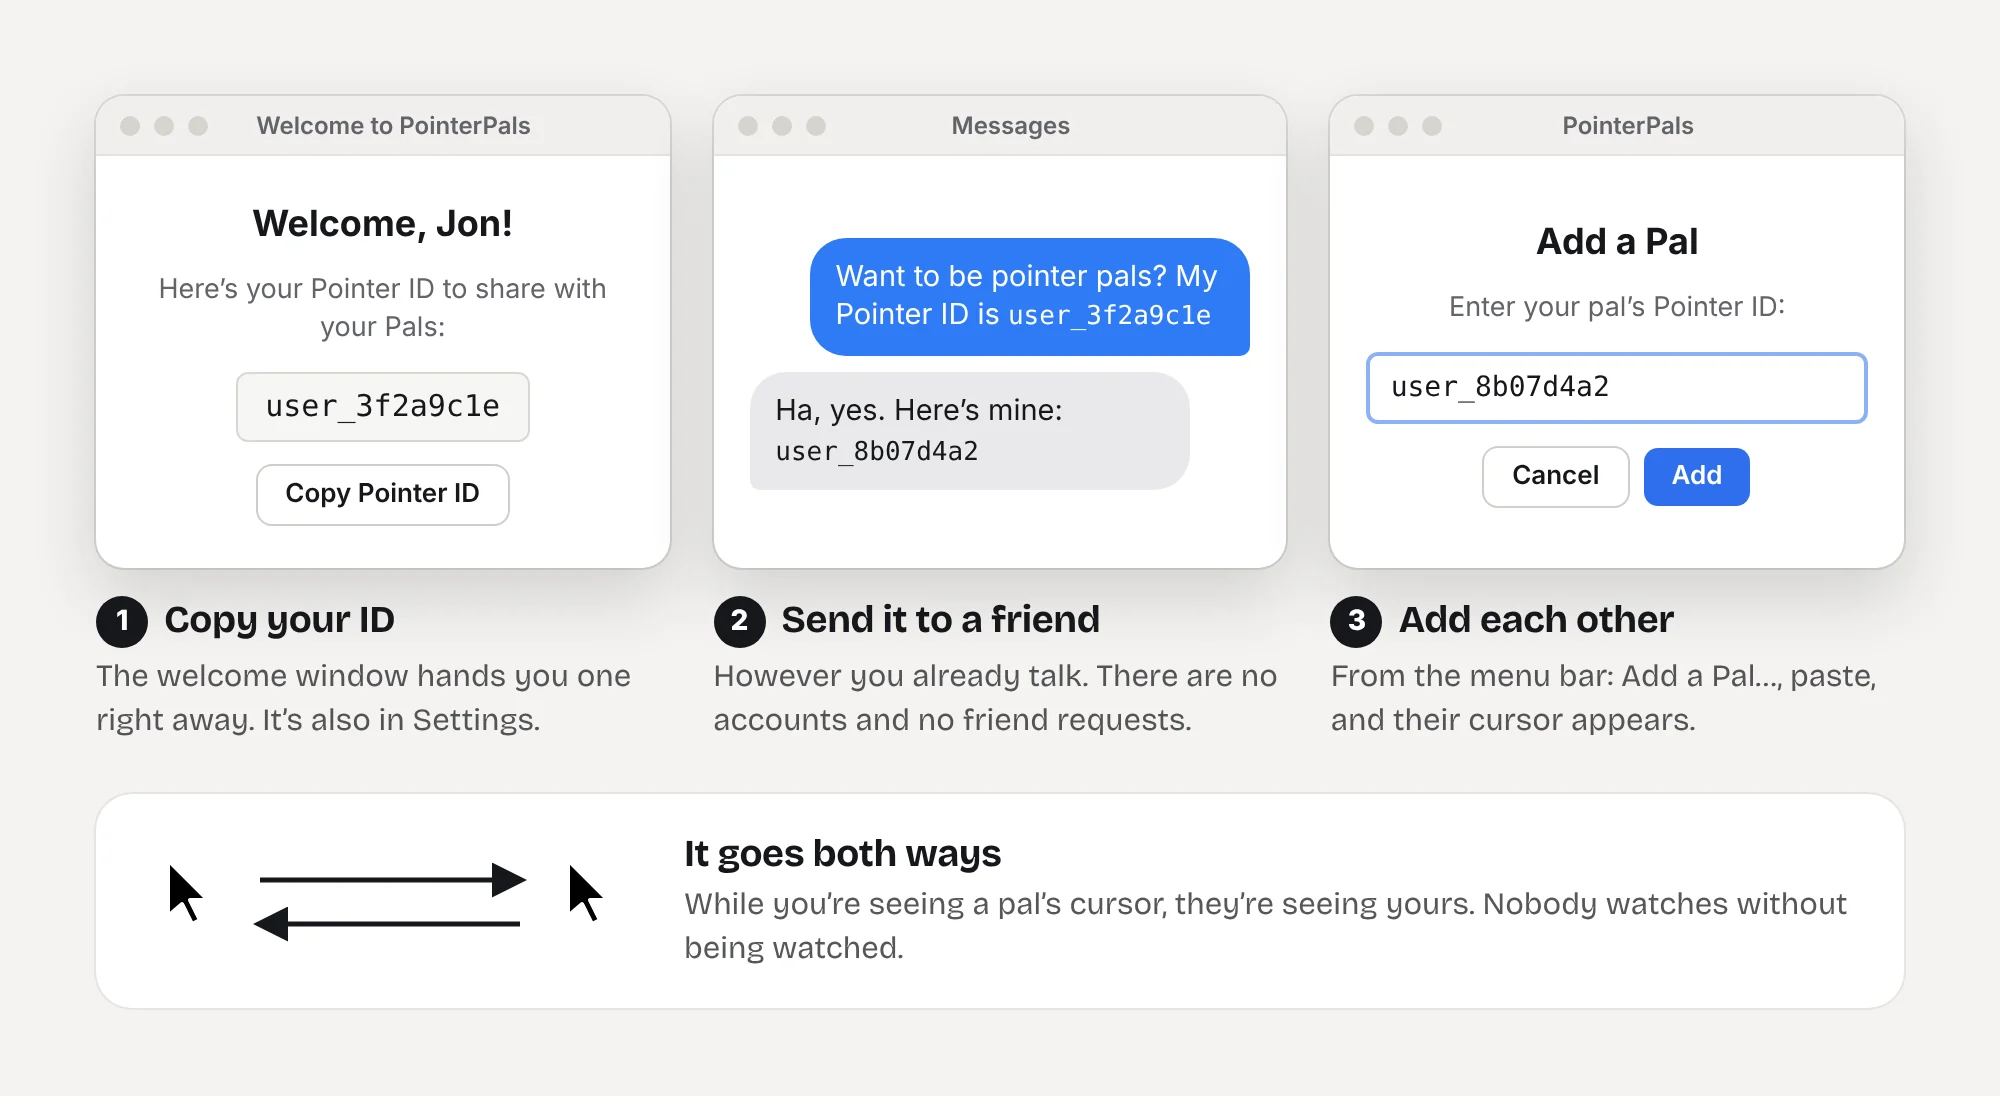
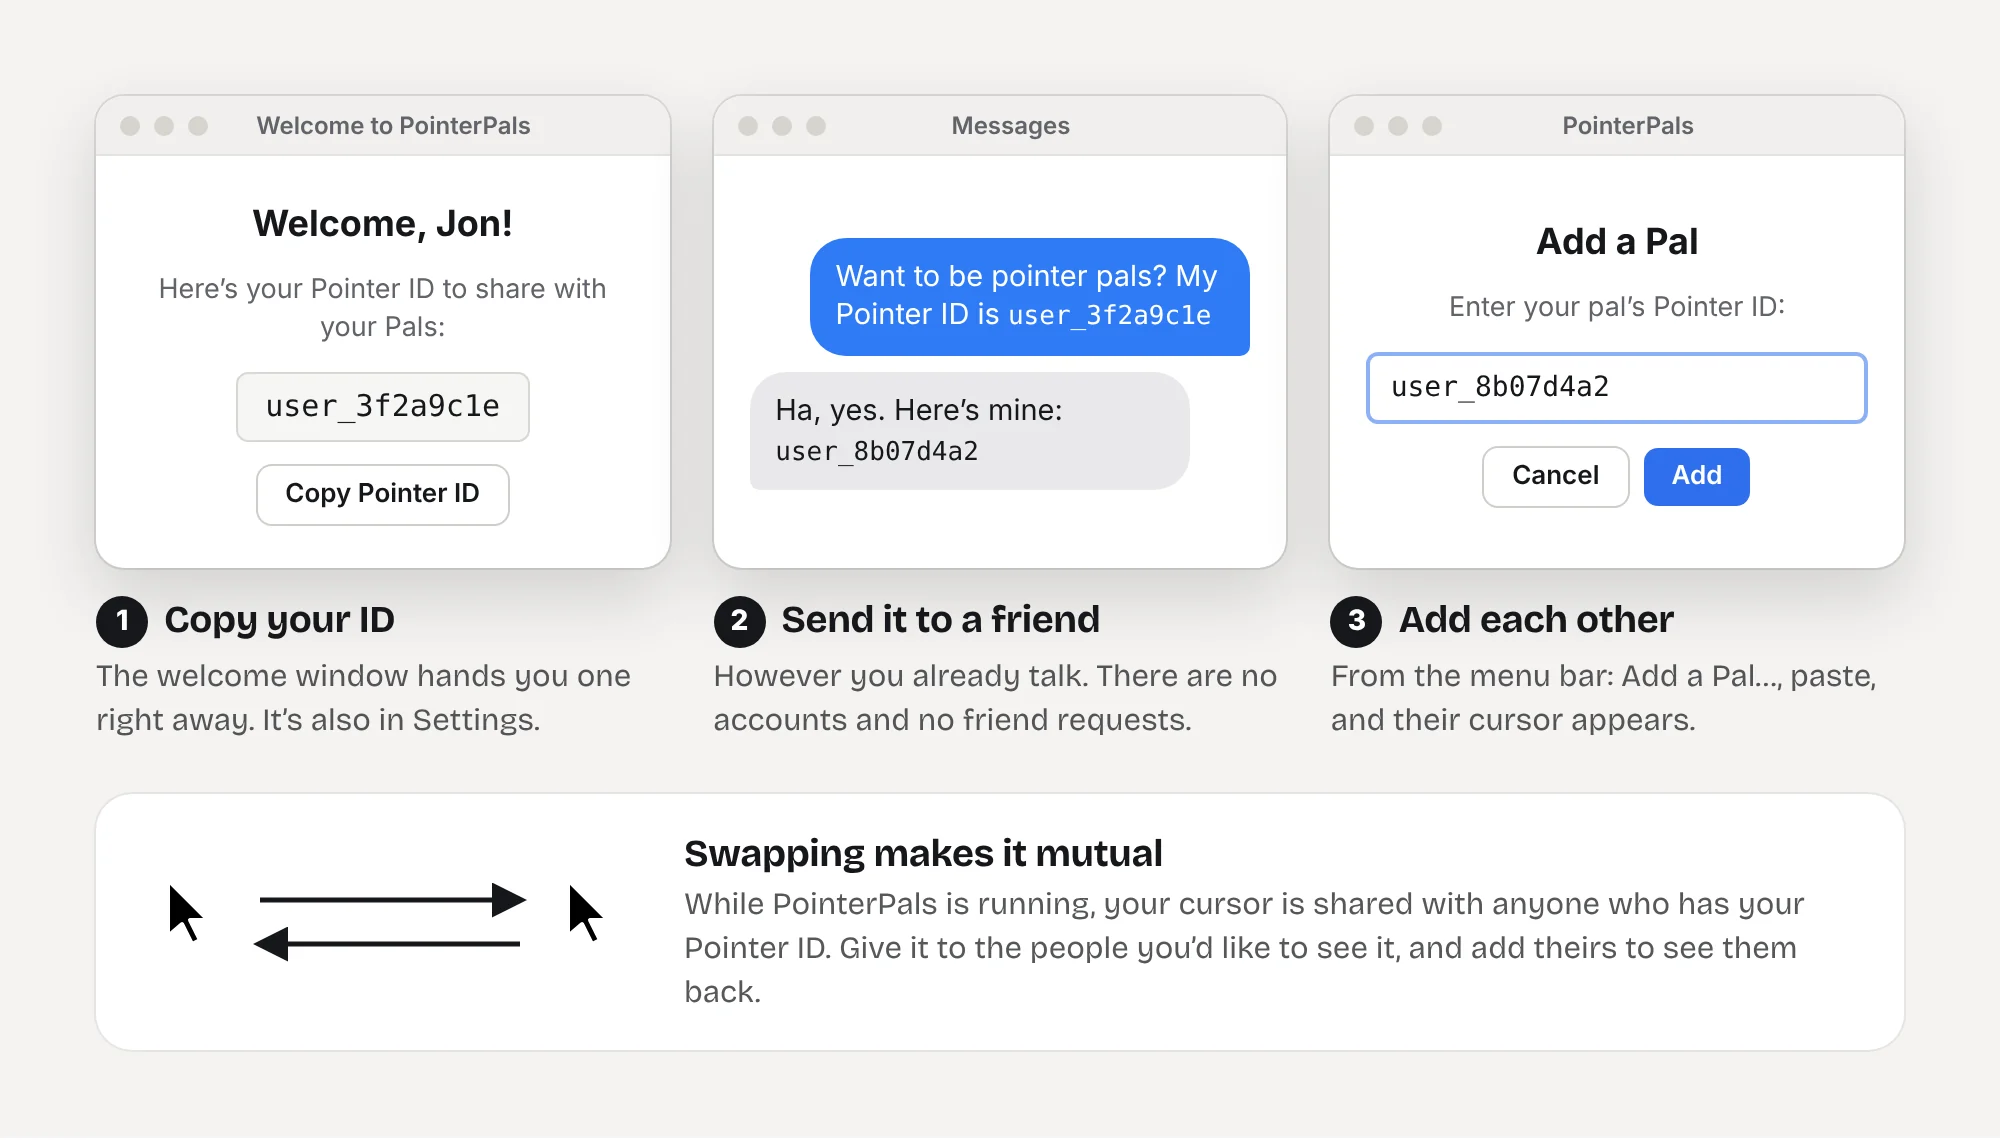
PointerPals: describe sharing as it works (anyone with your ID)
Claude-Session: https://claude.ai/code/session_01ApH9jEjLK1LJwCUv1Ydmxw

diff --git a/pointerpals/index.html b/pointerpals/index.html
@@ -70,8 +70,8 @@
 <p>The architecture uses normalized coordinates so cursor positions translate correctly across different screen sizes. A WebSocket server running on Google Cloud handles the pub/sub layer. The macOS client is Swift and SwiftUI; a Windows client exists in C# and WPF for cross-platform pairs.</p>
 <figure><div class="slot " data-src="../assets/media/pointerpals/process-1" data-exts="webp,jpg,png,gif" data-kind="image" data-alt="Two Macs with different screen sizes sharing a cursor position through a WebSocket server"><div class="slot-ph"><span>Process image</span><code>assets/media/pointerpals/process-1.webp</code></div></div><figcaption>A cursor travels as a fraction of the screen, so it lands in the same place on any display.</figcaption></figure>
 <h3>Pals, both ways</h3>
-<p>To add a pal, you swap Pointer IDs: copy yours, send it however you already talk, and paste theirs into Add a Pal. There are no accounts and no friend requests. It’s reciprocal, too: while you’re seeing a pal’s cursor, they’re seeing yours.</p>
-<figure><div class="slot " data-src="../assets/media/pointerpals/process-5" data-exts="webp,jpg,png,gif" data-kind="image" data-alt="The welcome window with a Pointer ID, two people swapping IDs in Messages, and the Add a Pal window"><div class="slot-ph"><span>Process image</span><code>assets/media/pointerpals/process-5.webp</code></div></div><figcaption>Swap IDs, add each other, and you can each see the other.</figcaption></figure>
+<p>To add a pal, you swap Pointer IDs: copy yours, send it however you already talk, and paste theirs into Add a Pal. There are no accounts and no friend requests. While PointerPals is running, your cursor is shared with anyone who has your ID, so swapping IDs is what makes it mutual: you each see the other.</p>
+<figure><div class="slot " data-src="../assets/media/pointerpals/process-5" data-exts="webp,jpg,png,gif" data-kind="image" data-alt="The welcome window with a Pointer ID, two people swapping IDs in Messages, and the Add a Pal window"><div class="slot-ph"><span>Process image</span><code>assets/media/pointerpals/process-5.webp</code></div></div><figcaption>Copy your ID, swap with a friend, and add each other.</figcaption></figure>
 <p>A pal’s cursor is drawn at 75% of the size of your own, so you don’t get confused about which one is yours. You can turn pals down to 50% in Settings.</p>
 <figure><div class="slot " data-src="../assets/media/pointerpals/process-6" data-exts="webp,jpg,png,gif" data-kind="image" data-alt="Your cursor at full size next to a pal’s smaller labeled cursor, and the Cursor Size slider at 75%"><div class="slot-ph"><span>Process image</span><code>assets/media/pointerpals/process-6.webp</code></div></div><figcaption>Your cursor, a pal’s at 75%, and the slider that sets it.</figcaption></figure>
 <h3>Ten days in January</h3>
